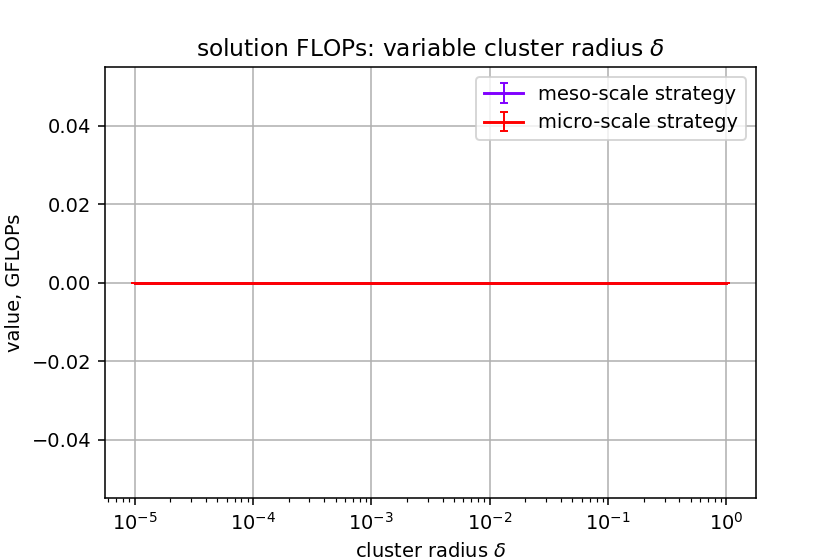
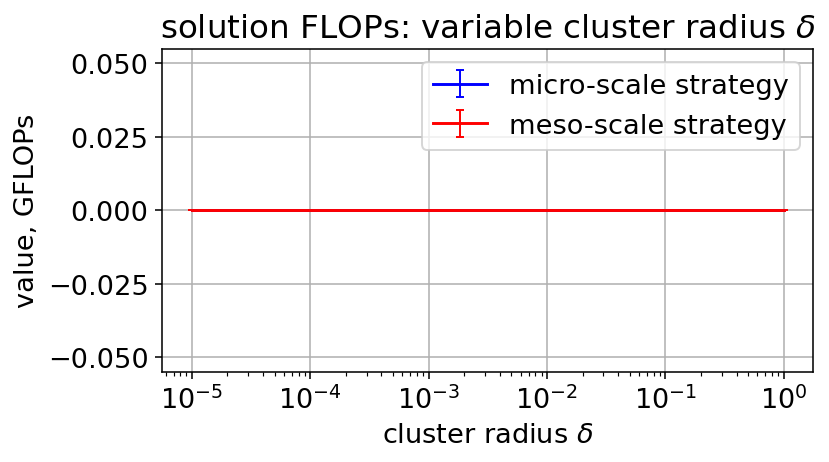
8 done

diff --git a/src/plot/plotter.py b/src/plot/plotter.py
@@ -43,6 +43,11 @@ units = {
     'distance': r'$\ell_2$ distance',
 }
 
+colors = {
+    'microcoup': 'b',
+    'mesocoup': 'r',
+}
+
 nonestring = 'None'
 
 
@@ -82,13 +87,14 @@ def exprt_results(dfs_perstrat, param_col, xvalues,
                   mean_cols, std_cols, 
                   xscale='log', yscale='log', xlogbase=10, ylogbase=10, 
                   save_dir=None):
-    colors = cm.rainbow(np.linspace(0, 1, len(list(dfs_perstrat.keys()))))
+    #colors = cm.rainbow(np.linspace(0, 1, len(list(dfs_perstrat.keys()))))
+    plt.rcParams.update({'font.size': 14})
     for means, stds in zip(mean_cols, std_cols):
         data_name = means[:-5]
-        fig, ax = plt.subplots(figsize=(6, 4), dpi=140)
+        fig, ax = plt.subplots(figsize=(6, 3), dpi=140)
         for sdx, (strat, df) in enumerate(dfs_perstrat.items()):
             ax.errorbar(xvalues, df[means], df[stds], 
-                        c=colors[sdx], elinewidth=1, capsize=2, capthick=1,
+                        c=colors[strat], elinewidth=1, capsize=2, capthick=1,
                         label=rename[strat])
             ax.grid('major')
             if xscale == 'log':
@@ -107,23 +113,25 @@ def exprt_results(dfs_perstrat, param_col, xvalues,
             ax.legend()
         #plt.show()
         if save_dir is not None:
-            plt.savefig(save_dir + f'{data_name}_{param_col}.png')
+            plt.savefig(save_dir + f'{data_name}_{param_col}.png', bbox_inches='tight')
 
 
 def exprt_dynamics(data, nd, info_string, info_string_simple, save_dir):
-    x = np.arange(nd)
+    x = np.arange(nd) + 1
+    plt.rcParams.update({'font.size': 18})
     for ftr, subdat in data.items():
-        colors = cm.rainbow(np.linspace(0, 1, len(list(subdat.keys()))))
-        fig, ax = plt.subplots(figsize=(6, 4), dpi=140)
+        #colors = cm.rainbow(np.linspace(0, 1, len(list(subdat.keys()))))
+        fig, ax = plt.subplots(figsize=(6, 3), dpi=200)
         for sdx, (strat, ssdat) in enumerate(subdat.items()):
-            ax.plot(x, ssdat, 
-                    c=colors[sdx], linewidth=1,
+            ax.plot(x[3:], ssdat[3:], 
+                    c=colors[strat], linewidth=1,
                     label=rename[strat])
         ax.grid('major')
+        ax.tick_params(axis='both', which='major', labelsize=10)
         ax.set_title(rename[ftr] + ', ' + info_string)
         ax.set_ylabel(f'value, {units[ftr]}')
         ax.set_xlabel(r'$\tau$')
         ax.legend()
         #plt.show()
         if save_dir is not None:
-            plt.savefig(save_dir + f'{ftr}_{info_string_simple}.png')
+            plt.savefig(save_dir + f'{ftr}_{info_string_simple}.png', bbox_inches='tight')

diff --git a/PlotDynamics.py b/PlotDynamics.py
@@ -7,9 +7,12 @@ from src.utils import product_dict, translation_table
 
 if __name__ == '__main__':
     exper_name = 'exprt_8'
-    subname = 'n_agents_100_mpc_n_t_16_do_coupling_False_cluster_rad_1_control_strategy'
-    info_string = r'$\delta = 1$'
-    info_string_simple = 'd_1'
+    subname = 'n_agents_100_mpc_n_t_16_do_coupling_False_cluster_rad_0.001_control_strategy'
+    info_string = r'$\delta = 0.001$'
+    info_string_simple = 'd_0.001'
+    #subname = 'n_agents_100_mpc_n_t_16_do_coupling_False_cluster_rad_1_control_strategy'
+    #info_string = r'$\delta = 1$'
+    #info_string_simple = 'd_1'
     strats = ['microcoup', 'mesocoup']
     dfs = {}
     for strat in strats:

diff --git a/PlotResults.py b/PlotResults.py
@@ -4,7 +4,7 @@ import src.plot.plotter as pltr
 
 
 if __name__ == '__main__':
-    exper_name = 'exprt_8'
+    exper_name = 'exprt_7'
     xscale = 'log'
     xbase = 10
     yscale = 'linear'
